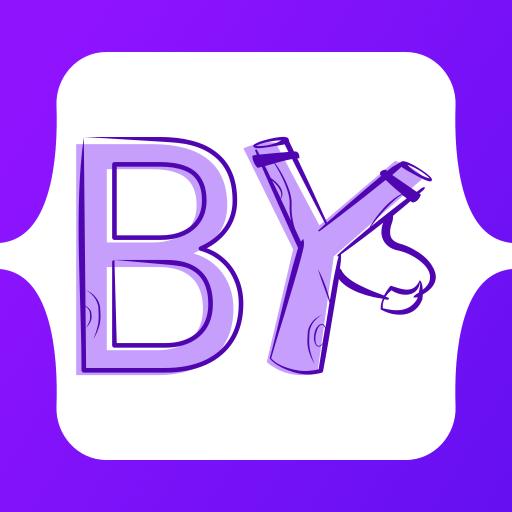
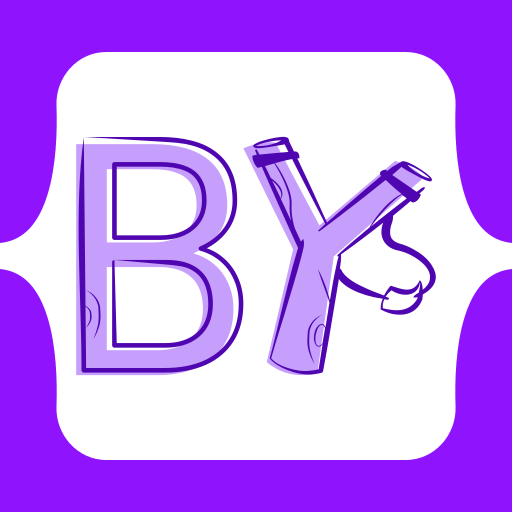
chore: release 1.2.0
- Bump version to 1.2.0 and add CHANGELOG entry
- Exclude dev files (eslint/tsconfig/src/tests/source maps) from the vsix
- Optimize extension icon (flatten gradient, 112KB -> 45KB)

Changed region(s): [[0.3438, 0.5312, 1.0, 1.0], [0.875, 0.0, 1.0, 0.4688]]

diff --git a/CHANGELOG.md b/CHANGELOG.md
@@ -2,6 +2,13 @@
 
 All notable changes to the extension will be documented in this file.
 
+## [1.2.0]
+
+- Feature: Suggest Bootstrap Icons (`bi-*`) classes when the `bootstrap-icons` package is detected, toggleable via `hamlBootstrap.enableBootstrapIconsCompletion`.
+- Feature: Ship an offline class-list fallback so CSS class completion still works when the CDN is unreachable and nothing is cached.
+- Feature: Rewrite snippets as native VS Code templates with interactive tabstops, choice lists, and mirrored ids.
+- Chore: Replace the extension icon.
+
 ## [1.1.0]
 
 - Feature: Detect Bootstrap across all folders in a multi-root workspace.